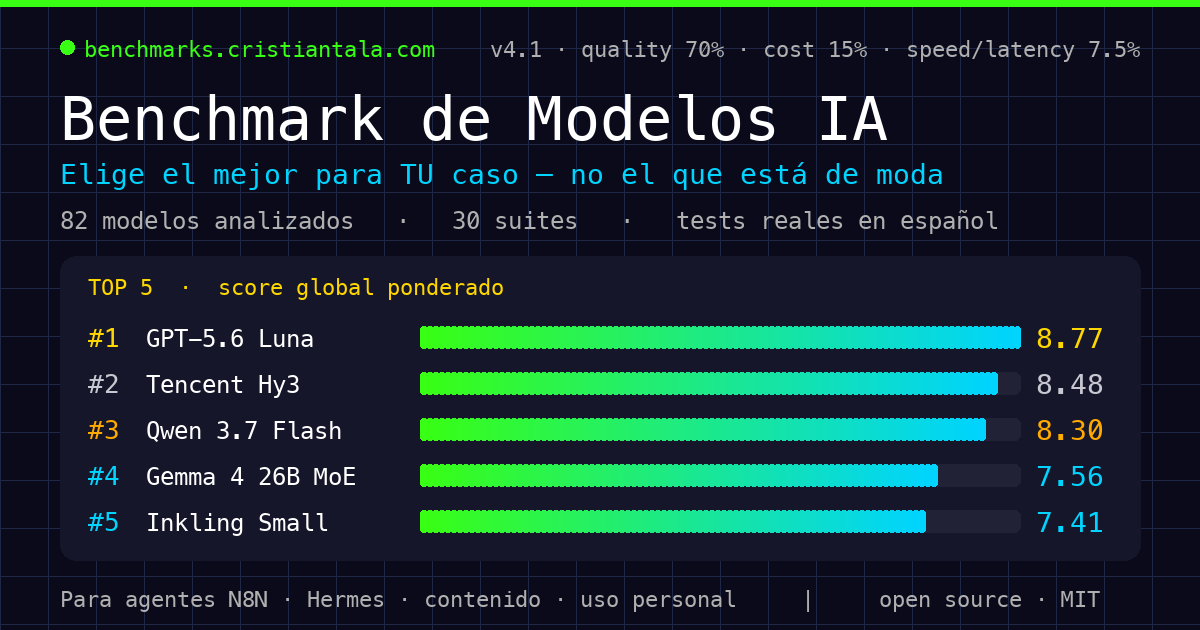
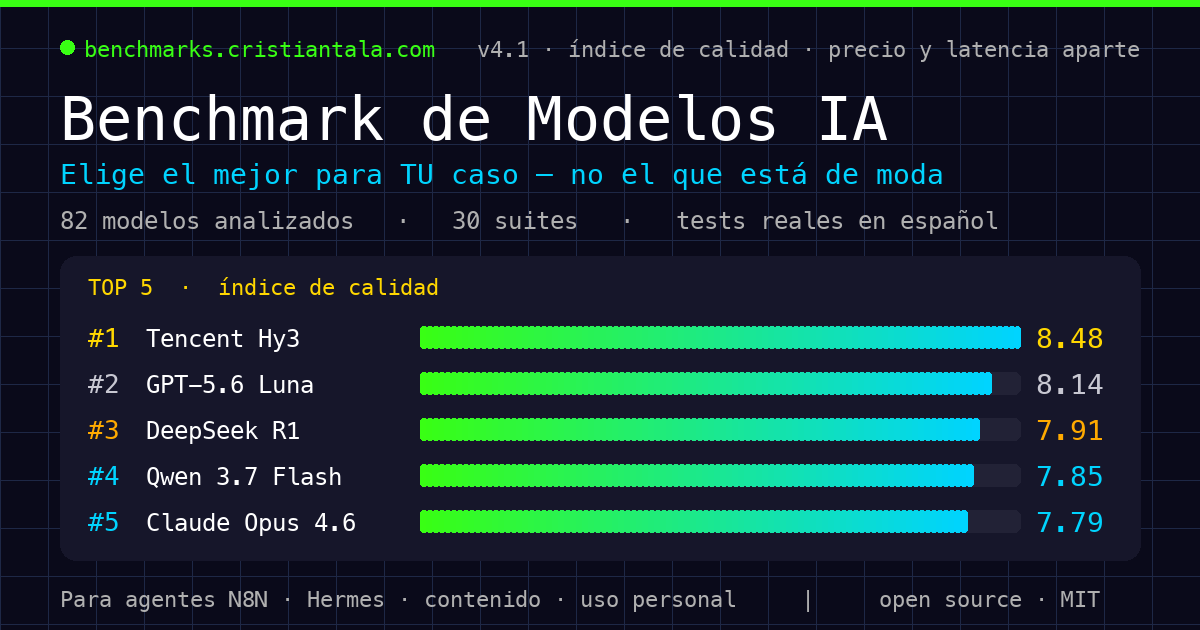
fix(sitio): metadatos y OG contaban una historia distinta a la del ranking
Tres desfases entre lo que publica el ranking y lo que anuncian las superficies
que lo rodean. Ninguno rompía nada — por eso sobrevivieron.

1. CONTEO OBSOLETO: "170 modelos / 27.000+ tests" en 5 lugares (meta description,
   og:description, twitter:description y dos bloques JSON-LD). Hoy son 191
   catalogados y 29.284 runs. Es lo que Google muestra en el snippet.

2. LA FAQ RECOMENDABA UN MODELO QUE NO SIRVE PARA LO QUE RECOMENDABA. A la
   pregunta "¿mejor alternativa a Claude para agentes N8N?" respondía con GLM 5.2,
   DeepSeek R1 y Ministral 14B. DeepSeek R1 saca 4,23 en tool calling — el peor de
   los tres y bajo el umbral de 6,0 con el que la propia calculadora lo filtra.
   Está en un bloque FAQPage, o sea candidato a resultado enriquecido de Google.

   Ahora la respuesta explica que para un agente decide el tool calling, no la
   calidad general, cita las notas, y usa a DeepSeek R1 como CONTRAEJEMPLO: top-3
   en calidad, 4,23 con herramientas. Es más útil como advertencia que como
   recomendación.

3. LA OG IMAGE MOSTRABA OTRO #1. Ordenaba por score_global: la tarjeta que se
   comparte decía "GPT-5.6 Luna 8,77" mientras la página que anuncia titulaba con
   Tencent Hy3 8,48. Y su rótulo describía la fórmula del compuesto sobre un
   ranking que ya es calidad pura. La tarjeta viaja sola por WhatsApp y redes, sin
   la página al lado que corrija: si miente el método, miente sin contexto.
[…]

diff --git a/docs/index.html b/docs/index.html
@@ -4,13 +4,13 @@
 <meta charset="UTF-8">
 <meta name="viewport" content="width=device-width, initial-scale=1.0">
 <title>Calculadora de Modelos IA en español: alternativas a Claude, GPT-5 y Gemini para N8N y Hermes</title>
-<meta name="description" content="Compara 170 modelos de IA con 27,000+ tests reales: precio, calidad, velocidad y tool calling. Encuentra alternativas a Claude, GPT-5, Gemini para agentes N8N, Hermes y emprendedores. Benchmark gratis y open source.">
+<meta name="description" content="Compara 191 modelos de IA con 29.000+ tests reales: precio, calidad, velocidad y tool calling. Encuentra alternativas a Claude, GPT-5, Gemini para agentes N8N, Hermes y emprendedores. Benchmark gratis y open source.">
 <meta name="keywords" content="benchmark LLM, alternativas Claude, alternativas GPT, modelos IA español, comparación modelos AI, OpenRouter, N8N, Hermes, agentes IA, LLM open source, calculadora modelos IA, Phi-4 judge, Devstral, GPT-5, Gemini, Llama, DeepSeek, Qwen, Mistral">
 <meta name="author" content="Cristian Tala">
 <link rel="canonical" href="https://benchmarks.cristiantala.com/">
 
 <meta property="og:title" content="Calculadora de Modelos IA en español: alternativas a Claude, GPT-5 y Gemini">
-<meta property="og:description" content="Compara 170 modelos de IA con 27,000+ tests reales. Encuentra el mejor para tu agente N8N, Hermes o uso personal.">
+<meta property="og:description" content="Compara 191 modelos de IA con 29.000+ tests reales. Encuentra el mejor para tu agente N8N, Hermes o uso personal.">
 <meta property="og:image" content="https://benchmarks.cristiantala.com/og-benchmark.png">
 <meta property="og:image:width" content="1200">
 <meta property="og:image:height" content="630">
@@ -22,7 +22,7 @@
 
 <meta name="twitter:card" content="summary_large_image">
 <meta name="twitter:title" content="Calculadora de Modelos IA en español">
-<meta name="twitter:description" content="Compara 170 modelos con tests reales. Alternativas a Claude, GPT-5 y Gemini para N8N y Hermes.">
+<meta name="twitter:description" content="Compara 191 modelos con tests reales. Alternativas a Claude, GPT-5 y Gemini para N8N y Hermes.">
 <meta name="twitter:image" content="https://benchmarks.cristiantala.com/og-benchmark.png">
 <meta name="twitter:creator" content="@cristiantala">
 
@@ -34,7 +34,7 @@
       "@type": "Dataset",
       "@id": "https://benchmarks.cristiantala.com/#dataset",
       "name": "Benchmark de Modelos AI Alternativos",
-      "description": "Benchmark abierto de 170 modelos de IA (LLMs) con 27.000+ tests reales organizados en 4 pilares (Razonamiento, Coding, Contenido, Agentes) + long-context y seguridad como dimensiones separadas. Evaluación con LLM-as-Judge Phi-4 local.",
+      "description": "Benchmark abierto de 191 modelos de IA (LLMs) con 29.000+ tests reales organizados en 4 pilares (Razonamiento, Coding, Contenido, Agentes) + long-context y seguridad como dimensiones separadas. Evaluación con LLM-as-Judge Phi-4 local.",
       "url": "https://benchmarks.cristiantala.com/",
       "sameAs": "https://github.com/ctala/ai-benchmarks-alternativos",
       "version": "v4.0",
@@ -63,7 +63,7 @@
       "name": "Calculadora de Modelos IA",
       "applicationCategory": "DeveloperApplication",
       "operatingSystem": "Web",
-      "description": "Calculadora interactiva para encontrar el mejor modelo IA según presupuesto, calidad, velocidad, tarea y caso de uso. Filtra entre 170 modelos benchmarkeados con pesos ajustables.",
+      "description": "Calculadora interactiva para encontrar el mejor modelo IA según presupuesto, calidad, velocidad, tarea y caso de uso. Filtra entre 191 modelos benchmarkeados (82 con muestra suficiente para rankear) con pesos ajustables.",
       "url": "https://benchmarks.cristiantala.com/",
       "softwareVersion": "v4.0",
       "datePublished": "2026-04-11",
@@ -770,7 +770,7 @@
       "name": "¿Cuál es la mejor alternativa a Claude para agentes N8N?",
       "acceptedAnswer": {
         "@type": "Answer",
-        "text": "Hoy los mejores modelos abiertos del ranking — GLM 5.2 (MIT), DeepSeek R1 (MIT), Ministral 14B (Apache 2.0) — dan calidad al nivel de los premium por una fracción del precio. El ranking se recalcula con cada lote: la respuesta con los números del día está en la calculadora, con presets por caso de uso. Si tu agente maneja credenciales, mira también la columna de seguridad."
+        "text": "Para un agente no decide la calidad general sino si el modelo USA bien las herramientas, que es otra medición. Entre los abiertos: GLM 5.2 (MIT, 8,15 en tool calling), DeepSeek V4 Flash (MIT, 7,60) y Ministral 14B (Apache 2.0, 6,81) rinden a nivel premium por una fracción del precio. Cuidado con elegir por el ranking general: DeepSeek R1 es top-3 en calidad y saca 4,23 usando herramientas — excelente para razonar, malo para un agente. El ranking se recalcula con cada lote: la respuesta con los números del día está en la calculadora, con presets por caso de uso. Si tu agente maneja credenciales, mira también la columna de seguridad."
       }
     },
     {

diff --git a/benchmarks/generate_og_image.py b/benchmarks/generate_og_image.py
@@ -79,8 +79,12 @@ def main():
     # ranking. La tarjeta social mostraba un #1 que el propio sitio no reconoce.
     n_tested = d.get("ranked_count", len([m for m in models if m.get("ranked")]))
     ms = [m for m in models if m.get("ranked")]
-    ms.sort(key=lambda m: -m.get("score_global", 0))
-    top = [m for m in ms if m.get("score_global")][:5]
+    # Ordena por ÍNDICE DE CALIDAD desde v4.1: la OG es la miniatura que se comparte,
+    # así que tiene que mostrar el mismo #1 que el README. Con score_global mostraba al
+    # líder del compuesto (GPT-5.6 Luna 8,77) mientras el sitio titulaba con otro
+    # (Tencent Hy3 8,48) — la tarjeta contradecía a la página que anuncia.
+    ms.sort(key=lambda m: -m.get("score_calidad", 0))
+    top = [m for m in ms if m.get("score_calidad")][:5]
     if not top and ms:
         top = ms[:5]
 
@@ -105,7 +109,10 @@ def main():
     f_tag = _font(22)
     dr.ellipse([PAD, 40, PAD + 14, 54], fill=GREEN)
     dr.text((PAD + 24, 36), "benchmarks.cristiantala.com", font=f_tag, fill=GREEN)
-    tag_r = f"{d.get('scoring_version', 'v4.0')} · quality 70% · cost 15% · speed/latency 7.5%"
+    # El rótulo describía la fórmula del COMPUESTO sobre un ranking que ya es calidad
+    # pura. La tarjeta se comparte sola, sin la página al lado: si miente el método,
+    # miente sin contexto que lo corrija.
+    tag_r = f"{d.get('scoring_version', 'v4.1')} · índice de calidad · precio y latencia aparte"
     dr.text((W - PAD - _text_w(dr, tag_r, f_tag), 36), tag_r, font=f_tag, fill=GRAY)
 
     # --- título ---
@@ -123,13 +130,13 @@ def main():
     panel_y0 = 256
     dr.rounded_rectangle([PAD, panel_y0, W - PAD, H - 70], radius=16, fill=PANEL)
     f_hdr = _font(22)
-    dr.text((PAD + 28, panel_y0 + 18), "TOP 5  ·  score global ponderado", font=f_hdr, fill=GOLD)
+    dr.text((PAD + 28, panel_y0 + 18), "TOP 5  ·  índice de calidad", font=f_hdr, fill=GOLD)
 
     rows_y0 = panel_y0 + 58
     row_h = 46
     bar_x0 = PAD + 360
     bar_x1 = W - PAD - 120
-    max_score = max((m.get("score_global", 0) for m in top), default=10) or 10
+    max_score = max((m.get("score_calidad", 0) for m in top), default=10) or 10
     f_rank = _font(26)
     f_name = _font(24)
     f_score = _font(28)
@@ -147,7 +154,7 @@ def main():
             name = name[:-2].rstrip() + "…" if not name.endswith("…") else name[:-2].rstrip() + "…"
         dr.text((name_x, y + 10), name, font=f_name, fill=WHITE)
         # barra proporcional al líder
-        frac = m.get("score_global", 0) / max_score
+        frac = m.get("score_calidad", 0) / max_score
         bx1 = bar_x0 + int((bar_x1 - bar_x0) * frac)
         dr.rounded_rectangle([bar_x0, cy - 11, bar_x1, cy + 11], radius=6, fill=(34, 34, 54))
         # relleno gradiente simple verde→cyan por pasos
@@ -160,7 +167,7 @@ def main():
             sx0 = bar_x0 + s * 6
             dr.rounded_rectangle([sx0, cy - 11, min(sx0 + 7, bx1), cy + 11], radius=6, fill=(r, g, b))
         # score
-        dr.text((bar_x1 + 16, y + 8), f"{m.get('score_global', 0):.2f}", font=f_score, fill=col)
+        dr.text((bar_x1 + 16, y + 8), f"{m.get('score_calidad', 0):.2f}", font=f_score, fill=col)
 
     # --- footer ---
     f_foot = _font(22)
@@ -168,7 +175,7 @@ def main():
     dr.text((PAD, H - 44), foot, font=f_foot, fill=GRAY)
 
     img.save(OUT, "PNG")
-    print(f"OK: {OUT} ({W}x{H}) — top1 {top[0]['name']} {top[0]['score_global']}, {n_tested} modelos")
+    print(f"OK: {OUT} ({W}x{H}) — top1 {top[0]['name']} {top[0]['score_calidad']}, {n_tested} modelos")
 
 if __name__ == "__main__":
     main()
